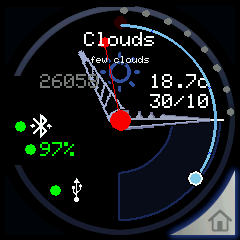
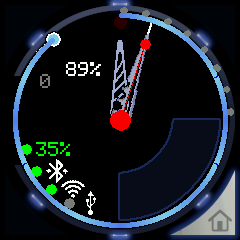
trying to get always on

Changed region(s): [[0.0292, 0.0, 0.9625, 1.0]]

diff --git a/src/app/Watchface.cpp b/src/app/Watchface.cpp
@@ -58,8 +58,8 @@ extern TFT_eSprite *overlay;
 // NTP sync data
 const char *ntpServer       = "es.pool.ntp.org";
 const long  gmtOffset_sec   = 3600;
-//const int   daylightOffset_sec = 0; // winter
-const int   daylightOffset_sec = 3600; // summer
+const int   daylightOffset_sec = 0; // winter
+//const int   daylightOffset_sec = 3600; // summer
 
 bool ntpSyncDone = false;
 bool weatherSyncDone = false;
@@ -412,18 +412,76 @@ int16_t screenShootActionAlpha = 0;
 extern uint16_t lastRLECount;
 
 void WatchfaceApplication::PrepareDataLayer() {
+    char textBuffer[64] = { 0 };
 
-    int32_t posX = 40;
-    int32_t posY = 170;
+    int32_t posX = 0;
+    int32_t posY = 0;
 
-    // connectivity notifications
-    if ( wifiEnabled ) {
-        marksCanvas->canvas->fillCircle(posX, posY, 5, TFT_GREEN);
-        marksCanvas->canvas->drawXBitmap(posX+10,posY-12,img_wifi_24_bits, img_wifi_24_width, img_wifi_24_height, TFT_WHITE);
+    marksCanvas->canvas->setTextFont(0);
+    marksCanvas->canvas->setTextSize(2);
+    marksCanvas->canvas->setTextDatum(TL_DATUM);
+    marksCanvas->canvas->setTextWrap(false,false);
+
+    // batt pc
+    if ( batteryPercent > -1 ) {
+        uint32_t battColor = TFT_DARKGREY;
+        posX = 26;
+        posY = 149;
+        bool battActivity= false; 
+        if ( vbusPresent ) {
+            battColor = TFT_GREEN;
+            battActivity = true;
+        } else if ( batteryPercent < 10 ) {
+                battActivity = true;
+                battColor = TFT_RED;
+        } else if ( batteryPercent < 35 ) { battColor = TFT_YELLOW; }
+        //else if ( batteryPercent > 70 ) { battColor = TFT_GREEN; }
+        marksCanvas->canvas->setTextColor(battColor);
+        int battFiltered = batteryPercent;
+        if ( battFiltered > 99 ) { battFiltered=99; }
+        sprintf(textBuffer,"%2d%%", battFiltered);
+        marksCanvas->canvas->setTextDatum(CL_DATUM);
+        marksCanvas->canvas->drawString(textBuffer, posX+10, posY+1);
+        marksCanvas->canvas->fillCircle(posX, posY, 5, battColor); // Alarm: red dot
+
+        /*
+        if ( batteryPercent < lastBattPC ) { 
+            unsigned long timeLastBatteryStepdown = millis()-lastBattPCTimeMs;
+            remainingBattTimeS = (timeLastBatteryStepdown*batteryPercent)/1000;
+        }
+        if ( false == vbusPresent ) {
+            uint16_t s = remainingBattTimeS % 60;
+            uint16_t t = (remainingBattTimeS - s)/60;
+            uint16_t m = t % 60;
+            t = (t - m)/60;
+            uint16_t h = t;
+
+            if ( remainingBattTimeS/60 > 60 ) {
+                sprintf(textBuffer,"%02dh %02dm",h , m);
+            } else {
+                sprintf(textBuffer,"%02dm %02ds", m, s);
+            }
+            lastBattPCTimeMs = millis();
+            dataLayer->setTextColor(TFT_WHITE);
+            dataLayer->setTextDatum(TL_DATUM);
+            dataLayer->setTextSize(1);
+            dataLayer->drawString(textBuffer, 36,162);
+        }
+
+        */
+    } else {
+        uint32_t battColor = TFT_DARKGREY;
+        posX = 26;
+        posY = 149;
+        marksCanvas->canvas->setTextColor(battColor);
+        marksCanvas->canvas->setTextDatum(CL_DATUM);
+        marksCanvas->canvas->drawString("No batt", posX+10, posY+1);
+        marksCanvas->canvas->fillCircle(posX, posY, 5, TFT_RED); // Alarm: red dot
     }
+
     if ( bleEnabled ) {
-        posX = 20;
-        posY = 126;
+        posX = 36;
+        posY = 171;
         uint32_t dotColor = TFT_DARKGREY;
         if ( bleServiceRunning ) { dotColor = TFT_GREEN; }
         marksCanvas->canvas->fillCircle(posX, posY, 5, dotColor);
@@ -431,9 +489,17 @@ void WatchfaceApplication::PrepareDataLayer() {
         if ( blePeer ) { img = img_bluetooth_peer_24_bits; }
         marksCanvas->canvas->drawXBitmap(posX+10,posY-12,img, img_bluetooth_24_width, img_bluetooth_24_height, TFT_WHITE);
     }
+
+    // connectivity notifications
+    if ( wifiEnabled ) {
+        posX = 51;
+        posY = 189;
+        marksCanvas->canvas->fillCircle(posX, posY, 5, TFT_GREEN);
+        marksCanvas->canvas->drawXBitmap(posX+10,posY-12,img_wifi_24_bits, img_wifi_24_width, img_wifi_24_height, TFT_WHITE);
+    }
     if ( vbusPresent ) {
-        posX=55;
-        posY=190;
+        posX=69; // 60;
+        posY=203; // 190;
         uint32_t color = TFT_DARKGREY;
         if ( ttgo->power->isChargeing() ) {
             color = TFT_GREEN;
@@ -443,11 +509,6 @@ void WatchfaceApplication::PrepareDataLayer() {
     }
     
 
-    char textBuffer[64] = { 0 };
-    marksCanvas->canvas->setTextFont(0);
-    marksCanvas->canvas->setTextSize(2);
-    marksCanvas->canvas->setTextDatum(TL_DATUM);
-    marksCanvas->canvas->setTextWrap(false,false);
 
     // weekday/day/month/year
     if ( ntpSyncDone ) {
@@ -520,55 +581,6 @@ void WatchfaceApplication::PrepareDataLayer() {
     sprintf(textBuffer,"%d", stepCount);
     marksCanvas->canvas->drawString(textBuffer, posX, posY);
 
-    // batt pc
-    if ( batteryPercent > -1 ) {
-        uint32_t battColor = TFT_DARKGREY;
-        posX = 40;
-        posY = 150;
-        bool battActivity= false; 
-        if ( vbusPresent ) {
-            battColor = TFT_GREEN;
-            battActivity = true;
-        } else if ( batteryPercent < 10 ) {
-                battActivity = true;
-                battColor = TFT_RED;
-        } else if ( batteryPercent < 35 ) { battColor = TFT_YELLOW; }
-        //else if ( batteryPercent > 70 ) { battColor = TFT_GREEN; }
-        marksCanvas->canvas->setTextColor(battColor);
-        int battFiltered = batteryPercent;
-        if ( battFiltered > 99 ) { battFiltered=99; }
-        sprintf(textBuffer,"%2d%%", battFiltered);
-        marksCanvas->canvas->setTextDatum(CL_DATUM);
-        marksCanvas->canvas->drawString(textBuffer, posX, posY);
-        marksCanvas->canvas->fillCircle(posX-10, posY-1, 5, battColor); // Alarm: red dot
-
-        /*
-        if ( batteryPercent < lastBattPC ) { 
-            unsigned long timeLastBatteryStepdown = millis()-lastBattPCTimeMs;
-            remainingBattTimeS = (timeLastBatteryStepdown*batteryPercent)/1000;
-        }
-        if ( false == vbusPresent ) {
-            uint16_t s = remainingBattTimeS % 60;
-            uint16_t t = (remainingBattTimeS - s)/60;
-            uint16_t m = t % 60;
-            t = (t - m)/60;
-            uint16_t h = t;
-
-            if ( remainingBattTimeS/60 > 60 ) {
-                sprintf(textBuffer,"%02dh %02dm",h , m);
-            } else {
-                sprintf(textBuffer,"%02dm %02ds", m, s);
-            }
-            lastBattPCTimeMs = millis();
-            dataLayer->setTextColor(TFT_WHITE);
-            dataLayer->setTextDatum(TL_DATUM);
-            dataLayer->setTextSize(1);
-            dataLayer->drawString(textBuffer, 36,162);
-        }
-
-        */
-    }
-
     if ( nullptr != weatherMain ) {
         marksCanvas->canvas->setTextFont(0);
         marksCanvas->canvas->setTextSize(2);
@@ -614,7 +626,7 @@ void WatchfaceApplication::PrepareDataLayer() {
             //bool DescribeCircleCallbackExample(int x, int y, int cx, int cy, int angle, int step, void * payload)
             size_t degrees = (pixelsSended*360)/totalPixels;
             int8_t stepColor=1;
-            DescribeCircle(120,120,95,[&,this](int x,int y, int cx, int cy, int angle, int step, void* payload){
+            DescribeCircle(120,120,105,[&,this](int x,int y, int cx, int cy, int angle, int step, void* payload){
                 if ( degrees > angle) {
                     /*
                    uint32_t mixColor0 = canvas->alphaBlend(screenShootActionAlpha,    TFT_BLUE, TFT_BLACK);
@@ -623,7 +635,7 @@ void WatchfaceApplication::PrepareDataLayer() {
                     */
                     uint32_t mixColor3 = canvas->alphaBlend(screenShootActionAlpha,    TFT_SKYBLUE, TFT_BLUE);
 
-                    marksCanvas->canvas->fillCircle(x,y,1,mixColor3);
+                    marksCanvas->canvas->fillCircle(x,y,2,mixColor3);
 
                     static int interleave =0;
                     if ( 0 == ( interleave % 3 ) ) {
@@ -644,8 +656,12 @@ void WatchfaceApplication::PrepareDataLayer() {
             char pcText[6] = { 0 };
             sprintf(pcText,"%3d%%",percentSended);
 
-            DescribeCircle(120,120,65,[&,this](int x,int y, int cx, int cy, int angle, int step, void* payload){
+            DescribeCircle(120,120,69,[&,this](int x,int y, int cx, int cy, int angle, int step, void* payload){
+                if ( ( angle < 270 ) && ( angle > 180 ) ) { return true; } // dont draw here
+                
+
                 if ( degrees == angle) {
+                    Serial.printf("ANGLE: %d\n", angle);
                     marksCanvas->canvas->setTextFont(0);
                     marksCanvas->canvas->setTextSize(2);
                     marksCanvas->canvas->setTextWrap(false,false);

diff --git a/src/app/MainMenu.cpp b/src/app/MainMenu.cpp
@@ -13,6 +13,7 @@
 #include "Notifications.hpp"
 #include "../static/img_mainmenu_notifications.xbm"
 
+#ifdef LUNOKIOT_DEBUG_UI
 #include "Playground.hpp"
 #include "Playground0.hpp"
 #include "Playground1.hpp"
@@ -21,6 +22,8 @@
 #include "Playground4.hpp"
 #include "Playground5.hpp"
 #include "Playground6.hpp"
+#include "Playground7.hpp"
+#endif
 
 #include "../static/img_mainmenu_provisioning.xbm"
 //#include "Provisioning.hpp"
@@ -41,6 +44,7 @@ int32_t currentAppOffset = 0;
 MainMenuApplicationEntry AllApps[] = {
     {"Back", img_mainmenu_back_bits, img_mainmenu_back_height, img_mainmenu_back_width, []() { LaunchApplication(new WatchfaceApplication()); } },
 #ifdef LUNOKIOT_DEBUG_UI
+    {"Playground7",img_mainmenu_debug_bits, img_mainmenu_debug_height, img_mainmenu_debug_width, []() { LaunchApplication(new PlaygroundApplication7()); } },
     {"Playground6",img_mainmenu_debug_bits, img_mainmenu_debug_height, img_mainmenu_debug_width, []() { LaunchApplication(new PlaygroundApplication6()); } },
     {"Playground5",img_mainmenu_debug_bits, img_mainmenu_debug_height, img_mainmenu_debug_width, []() { LaunchApplication(new PlaygroundApplication5()); } },
     {"Playground4",img_mainmenu_debug_bits, img_mainmenu_debug_height, img_mainmenu_debug_width, []() { LaunchApplication(new PlaygroundApplication4()); } },

diff --git a/src/app/Playground7.cpp b/src/app/Playground7.cpp
@@ -1,0 +1,33 @@
+#include <Arduino.h>
+#include <LilyGoWatch.h>
+#include "Playground7.hpp"
+#include "../UI/UI.hpp"
+
+PlaygroundApplication7::~PlaygroundApplication7() {
+    ttgo->setBrightness(128);    
+}
+PlaygroundApplication7::PlaygroundApplication7() {
+    ttgo->setBrightness(5);
+}
+bool PlaygroundApplication7::Tick() {
+    if (millis() > nextRedraw ) {
+        // draw code here
+        time_t now;
+        struct tm * tmpTime;
+        struct tm timeinfo;
+        time(&now);
+        tmpTime = localtime(&now);
+        memcpy(&timeinfo,tmpTime, sizeof(struct tm));
+        char buffer[64] = { 0 };
+        sprintf(buffer,"%02d:%02d", timeinfo.tm_hour, timeinfo.tm_min);
+        canvas->setTextSize(2);
+        canvas->setTextDatum(CC_DATUM);
+        canvas->setFreeFont(&FreeMonoBold18pt7b);
+        canvas->setTextColor(TFT_WHITE);
+        canvas->fillSprite(TFT_BLACK);
+        canvas->drawString(buffer, TFT_WIDTH/2, TFT_HEIGHT/2);
+        nextRedraw=millis()+(1000/1); // tune your required refresh
+        return true;
+    }
+    return false;
+}

diff --git a/src/app/Playground7.hpp b/src/app/Playground7.hpp
@@ -1,0 +1,17 @@
+#ifndef __LUNOKIOT__PlaygroundApplication6_APP__
+#define __LUNOKIOT__PlaygroundApplication6_APP__
+
+#include <Arduino.h>
+#include <LilyGoWatch.h>
+#include "../system/Application.hpp"
+
+class PlaygroundApplication7: public LunokIoTApplication {
+    private:
+        unsigned long nextRedraw=0;
+    public:
+        PlaygroundApplication7();
+        ~PlaygroundApplication7();
+        bool Tick();
+};
+
+#endif
